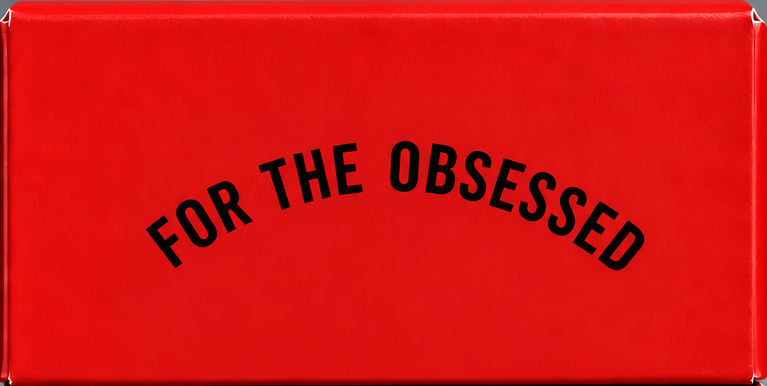
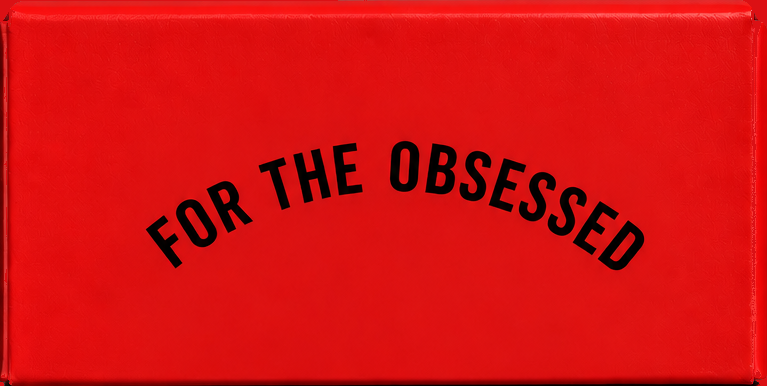
3d box animation 0.3 (remove white small strip line from the side of the box)

diff --git a/src/components/CigaretteBox.jsx b/src/components/CigaretteBox.jsx
@@ -99,7 +99,7 @@ export function CigaretteBox({ animRef }) {
       clearcoat: 0.18,
       clearcoatRoughness: 0.35,
       side: THREE.FrontSide,
-      transparent: true,
+      transparent: false,
       opacity: 1.0
     });
   }, [lidTexture]);
@@ -113,7 +113,7 @@ export function CigaretteBox({ animRef }) {
       clearcoat: 0.18,
       clearcoatRoughness: 0.35,
       side: THREE.FrontSide,
-      transparent: true,
+      transparent: false,
       opacity: 1.0
     });
   }, [bodyTexture]);
@@ -127,7 +127,7 @@ export function CigaretteBox({ animRef }) {
       clearcoat: 0.18,
       clearcoatRoughness: 0.35,
       side: THREE.FrontSide,
-      transparent: true,
+      transparent: false,
       opacity: 1.0
     });
   }, [sideTexture]);
@@ -140,7 +140,7 @@ export function CigaretteBox({ animRef }) {
       clearcoat: 0.18,
       clearcoatRoughness: 0.35,
       side: THREE.FrontSide,
-      transparent: true,
+      transparent: false,
       opacity: 1.0
     });
   }, [backTexture]);
@@ -153,7 +153,7 @@ export function CigaretteBox({ animRef }) {
       clearcoat: 0.18,
       clearcoatRoughness: 0.35,
       side: THREE.FrontSide,
-      transparent: true,
+      transparent: false,
       opacity: 1.0
     });
   }, []);
@@ -164,8 +164,8 @@ export function CigaretteBox({ animRef }) {
       color: 0xccd1dc,
       roughness: 0.28,
       metalness: 0.88,
-      side: THREE.BackSide,
-      transparent: true,
+      side: THREE.FrontSide, // Inward facing foil; backface-culled from outside so zero silver shows on exterior
+      transparent: false,
       opacity: 1.0
     });
   }, []);
@@ -257,11 +257,13 @@ export function CigaretteBox({ animRef }) {
       lidHingeRef.current.rotation.x = -boxOpen * 2.15;
     }
 
-    // 3. Opacity Control
+    // 3. Opacity & Transparency Control (only transparent when fading out to prevent any depth-sorting leaks)
+    const isFading = boxOpacity < 0.999;
     [lidFrontMat, bodyFrontMat, boxSideMat, boxBackMat, boxPlainRedMat, interiorFoilMat, collarMat].forEach((mat) => {
       if (mat) {
         mat.opacity = boxOpacity;
-        mat.depthWrite = boxOpacity > 0.95;
+        mat.transparent = isFading;
+        mat.depthWrite = !isFading;
       }
     });
   });
@@ -336,24 +338,24 @@ export function CigaretteBox({ animRef }) {
         <mesh
           geometry={bodySideGeom}
           material={interiorFoilMat}
-          position={[-BOX_W / 2 + 0.005, -BODY_H / 2, 0]}
+          position={[-BOX_W / 2 + 0.012, -BODY_H / 2, 0]}
           rotation={[0, Math.PI / 2, 0]}
         />
         <mesh
           geometry={bodySideGeom}
           material={interiorFoilMat}
-          position={[BOX_W / 2 - 0.005, -BODY_H / 2, 0]}
+          position={[BOX_W / 2 - 0.012, -BODY_H / 2, 0]}
           rotation={[0, -Math.PI / 2, 0]}
         />
         <mesh
           geometry={bodyBackGeom}
           material={interiorFoilMat}
-          position={[0, -BODY_H / 2, -BOX_D / 2 + 0.005]}
+          position={[0, -BODY_H / 2, -BOX_D / 2 + 0.012]}
         />
         <mesh
           geometry={bottomGeom}
           material={interiorFoilMat}
-          position={[0, -BODY_H + 0.005, 0]}
+          position={[0, -BODY_H + 0.012, 0]}
           rotation={[-Math.PI / 2, 0, 0]}
         />
 
@@ -433,7 +435,7 @@ export function CigaretteBox({ animRef }) {
           <mesh
             geometry={lidFrontGeom}
             material={interiorFoilMat}
-            position={[0, 0, BOX_D / 2 - 0.005]}
+            position={[0, 0, BOX_D / 2 - 0.012]}
             rotation={[0, Math.PI, 0]}
           />
 
@@ -448,7 +450,7 @@ export function CigaretteBox({ animRef }) {
           <mesh
             geometry={lidBackGeom}
             material={interiorFoilMat}
-            position={[0, 0, -BOX_D / 2 + 0.005]}
+            position={[0, 0, -BOX_D / 2 + 0.012]}
           />
 
           {/* Lid Left Side Panel */}
@@ -462,7 +464,7 @@ export function CigaretteBox({ animRef }) {
           <mesh
             geometry={lidSideGeom}
             material={interiorFoilMat}
-            position={[-BOX_W / 2 + 0.005, 0, 0]}
+            position={[-BOX_W / 2 + 0.012, 0, 0]}
             rotation={[0, Math.PI / 2, 0]}
           />
 
@@ -477,7 +479,7 @@ export function CigaretteBox({ animRef }) {
           <mesh
             geometry={lidSideGeom}
             material={interiorFoilMat}
-            position={[BOX_W / 2 - 0.005, 0, 0]}
+            position={[BOX_W / 2 - 0.012, 0, 0]}
             rotation={[0, -Math.PI / 2, 0]}
           />
 
@@ -492,7 +494,7 @@ export function CigaretteBox({ animRef }) {
           <mesh
             geometry={topGeom}
             material={interiorFoilMat}
-            position={[0, LID_H / 2 - 0.005, 0]}
+            position={[0, LID_H / 2 - 0.012, 0]}
             rotation={[Math.PI / 2, 0, 0]}
           />
         </group>
